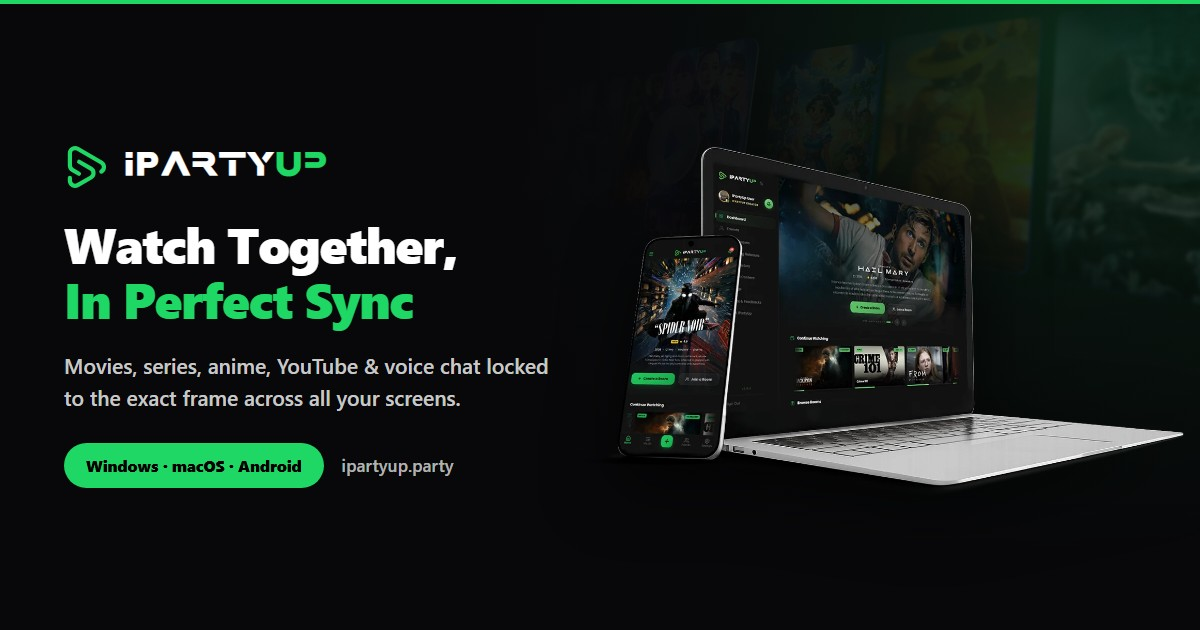
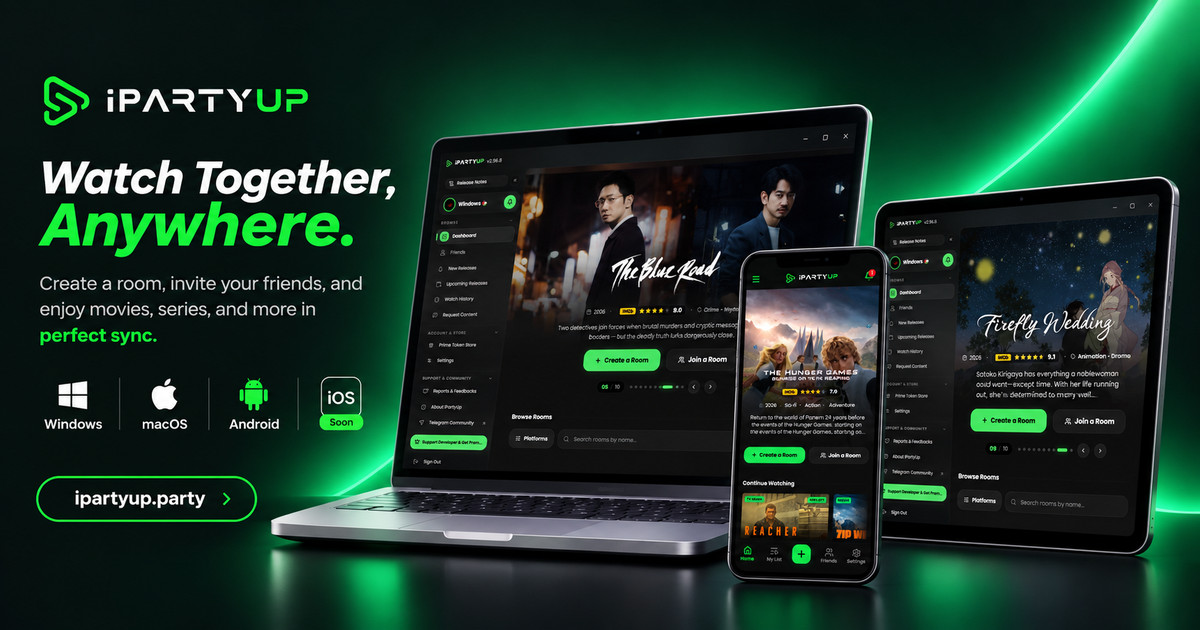
Use optimized custom 1200x630 Open Graph preview image (v2)

diff --git a/lib/seo.ts b/lib/seo.ts
@@ -3,11 +3,11 @@ import type { Metadata } from "next"
 export const SITE_URL = "https://ipartyup.party"
 
 export const DEFAULT_OG_IMAGE = {
-  url: "/og-image.jpg",
+  url: "/og-image.jpg?v=2",
   width: 1200,
   height: 630,
   type: "image/jpeg",
-  alt: "iPartyUp - Watch Movies, Series & Anime Together in Perfect Sync",
+  alt: "iPartyUp - Watch Together Anywhere in Perfect Sync",
 } as const
 
 export const NOINDEX_ROBOTS: Metadata["robots"] = {
